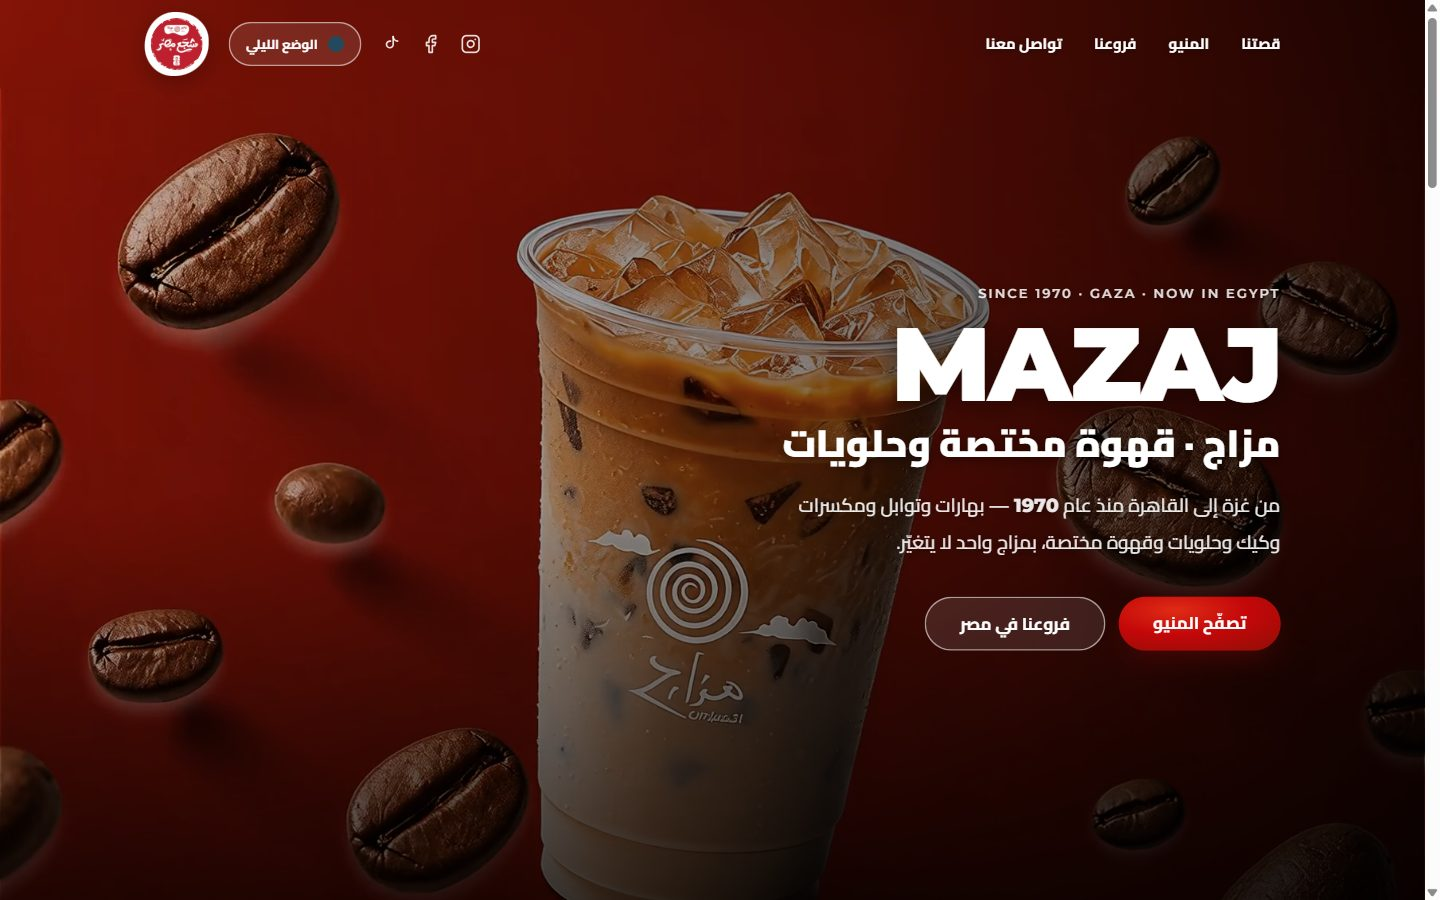
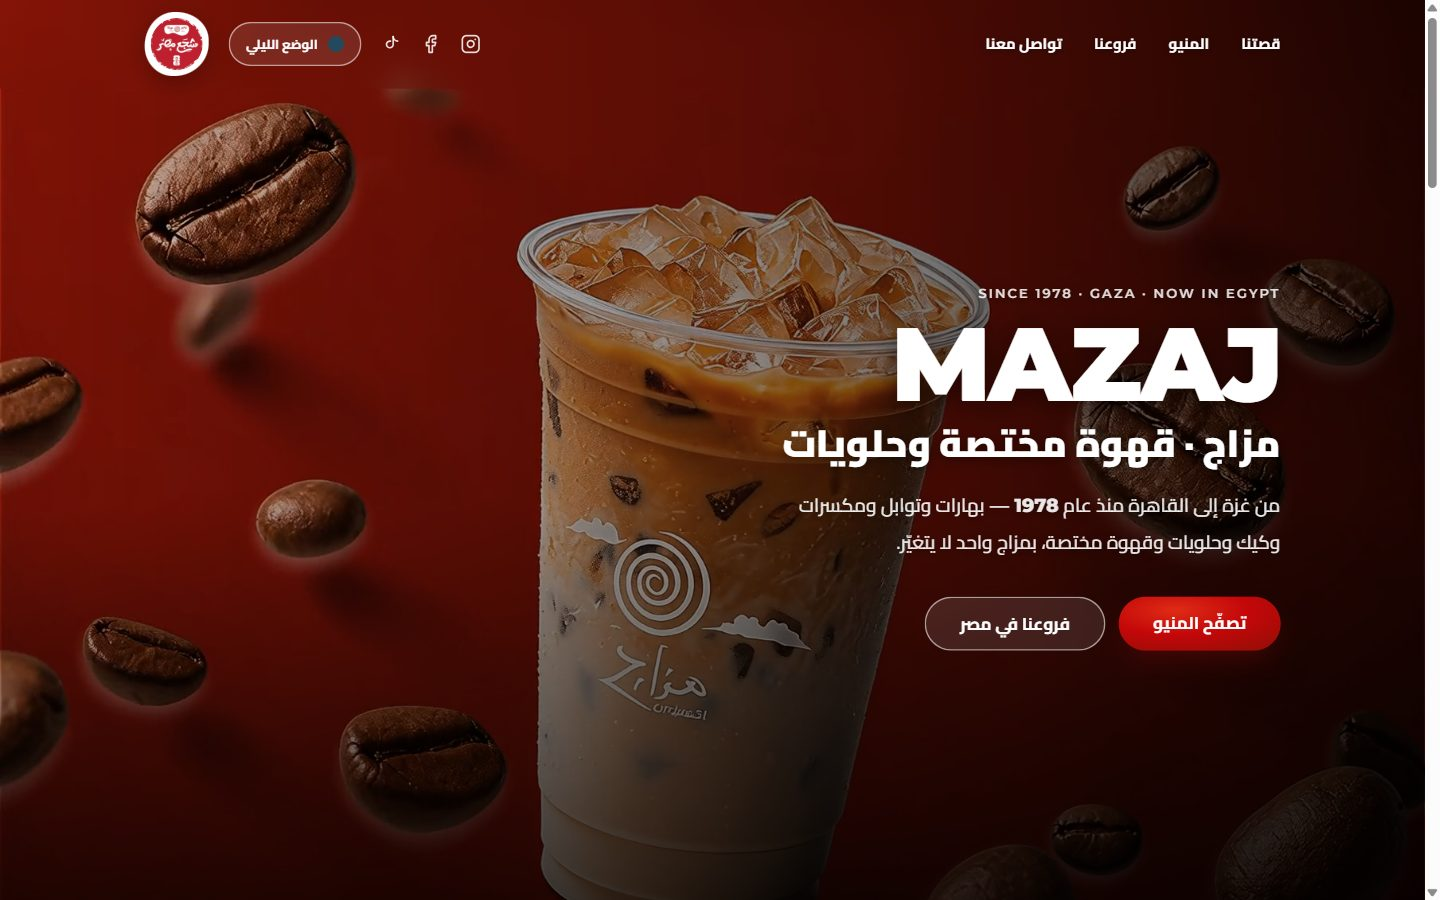
Correct the founding year to 1978
Per the owner. Replaces 1970 everywhere it appeared: the meta description and
og:description, the hero kicker and lead (markup and content/hero-content.json,
including the JS fallback), the story paragraph, the counting stat, the footer
and the README.

Two knock-ons that a find-and-replace alone would have missed:

- "more than fifty years" of experience is no longer true from 1978, so that
  line now reads "nearly fifty years".
- The year is rendered into brand/og-cover.jpg and both docs/preview shots.
  All three are regenerated; the share card ships as og-cover-v2.jpg because
  WhatsApp and Facebook cache the preview against the image URL, and the 1970
  card was briefly live under the old name.

diff --git a/index.html b/index.html
@@ -4,7 +4,7 @@
   <meta charset="UTF-8">
   <meta name="viewport" content="width=device-width, initial-scale=1.0">
   <title>مزاج · Mazaj — قهوة مختصة وحلويات</title>
-  <meta name="description" content="مزاج — من غزة إلى مصر منذ 1970. بهارات وتوابل ومكسرات وكيك وحلويات وقهوة مختصة. تصفّح المنيو كاملاً وشوف أقرب فرع إليك.">
+  <meta name="description" content="مزاج — من غزة إلى مصر منذ 1978. بهارات وتوابل ومكسرات وكيك وحلويات وقهوة مختصة. تصفّح المنيو كاملاً وشوف أقرب فرع إليك.">
   <meta name="theme-color" content="#FBF7F4" media="(prefers-color-scheme: light)">
   <meta name="theme-color" content="#14181C" media="(prefers-color-scheme: dark)">
 
@@ -19,16 +19,16 @@
   <meta property="og:type" content="website">
   <meta property="og:site_name" content="Mazaj — مزاج">
   <meta property="og:title" content="مزاج · Mazaj — قهوة مختصة وحلويات">
-  <meta property="og:description" content="من غزة إلى مصر منذ 1970 — بهارات وتوابل ومكسرات وكيك وحلويات وقهوة مختصة.">
+  <meta property="og:description" content="من غزة إلى مصر منذ 1978 — بهارات وتوابل ومكسرات وكيك وحلويات وقهوة مختصة.">
   <meta property="og:url" content="https://7km-69.github.io/mazaj-cafe-website/">
-  <meta property="og:image" content="https://7km-69.github.io/mazaj-cafe-website/brand/og-cover.jpg">
+  <meta property="og:image" content="https://7km-69.github.io/mazaj-cafe-website/brand/og-cover-v2.jpg">
   <meta property="og:image:type" content="image/jpeg">
   <meta property="og:image:width" content="1200">
   <meta property="og:image:height" content="630">
   <meta property="og:image:alt" content="مزاج · Mazaj — قهوة مختصة وحلويات">
   <meta property="og:locale" content="ar_EG">
   <meta name="twitter:card" content="summary_large_image">
-  <meta name="twitter:image" content="https://7km-69.github.io/mazaj-cafe-website/brand/og-cover.jpg">
+  <meta name="twitter:image" content="https://7km-69.github.io/mazaj-cafe-website/brand/og-cover-v2.jpg">
 
   <!-- Preconnect: Google Fonts DNS + TLS resolved before the CSS request fires -->
   <link rel="preconnect" href="https://fonts.googleapis.com">
@@ -649,10 +649,10 @@ a:focus-visible, [tabindex]:focus-visible, button:focus-visible {
   <div class="hero-foot" aria-hidden="true"></div>
 
   <div class="hero-in">
-    <p class="hero-eyebrow ltr" lang="en" data-rise data-hero="kicker">Since 1970 · Gaza · Now in Egypt</p>
+    <p class="hero-eyebrow ltr" lang="en" data-rise data-hero="kicker">Since 1978 · Gaza · Now in Egypt</p>
     <h1 class="ltr" lang="en" data-rise data-hero="heading">MAZAJ</h1>
     <p class="hero-sub" data-rise data-hero="subheading">مزاج · قهوة مختصة وحلويات</p>
-    <p class="hero-lede" data-rise data-hero="lead">من غزة إلى القاهرة منذ عام <span class="num" dir="ltr">1970</span> — بهارات وتوابل ومكسرات وكيك وحلويات وقهوة مختصة، بمزاج واحد لا يتغيّر.</p>
+    <p class="hero-lede" data-rise data-hero="lead">من غزة إلى القاهرة منذ عام <span class="num" dir="ltr">1978</span> — بهارات وتوابل ومكسرات وكيك وحلويات وقهوة مختصة، بمزاج واحد لا يتغيّر.</p>
 
     <div class="hero-cta" data-rise>
       <a class="btn btn-primary" href="#menus" data-hero="cta1">تصفّح المنيو</a>
@@ -669,13 +669,13 @@ a:focus-visible, [tabindex]:focus-visible, button:focus-visible {
       <p class="eyebrow ltr" lang="en">Our Story</p>
       <h2 class="h2">قصتنا</h2>
 
-      <p class="lede" style="margin-top:24px">حكاية مزاج بدأت في <strong>غزة عام <span class="num" dir="ltr">1970</span></strong> — بيت خبرة في البهارات والتوابل والمكسرات والحلويات، كبر جيلًا بعد جيل حتى صار <span class="num" dir="ltr">14</span> فرعًا يعرفها أهل المدينة بالاسم.</p>
+      <p class="lede" style="margin-top:24px">حكاية مزاج بدأت في <strong>غزة عام <span class="num" dir="ltr">1978</span></strong> — بيت خبرة في البهارات والتوابل والمكسرات والحلويات، كبر جيلًا بعد جيل حتى صار <span class="num" dir="ltr">14</span> فرعًا يعرفها أهل المدينة بالاسم.</p>
 
-      <p class="note" style="margin-top:18px">وأكثر من خمسين عامًا من الخبرة عبرت إلى مصر: ثلاثة فروع في <span class="num" dir="ltr">6</span> أكتوبر ومدينة نصر ومدينتي — نفس الخلطات، نفس المعايير، ونفس المزاج.</p>
+      <p class="note" style="margin-top:18px">وقرابة خمسين عامًا من الخبرة عبرت إلى مصر: ثلاثة فروع في <span class="num" dir="ltr">6</span> أكتوبر ومدينة نصر ومدينتي — نفس الخلطات، نفس المعايير، ونفس المزاج.</p>
 
       <div class="stats" data-reveal>
         <div class="stat">
-          <b class="ltr" data-count>1970</b>
+          <b class="ltr" data-count>1978</b>
           <span>سنة التأسيس في غزة</span>
         </div>
         <div class="stat">
@@ -846,7 +846,7 @@ a:focus-visible, [tabindex]:focus-visible, button:focus-visible {
         <div class="blob blob-lg">
           <img src="brand/logo.jpg" alt="مزاج — Mazaj" width="68" height="68" loading="lazy">
         </div>
-        <p class="ftr-text">مزاج — من غزة إلى مصر منذ <span class="num" dir="ltr">1970</span>. بهارات وتوابل ومكسرات وكيك وحلويات وقهوة مختصة.</p>
+        <p class="ftr-text">مزاج — من غزة إلى مصر منذ <span class="num" dir="ltr">1978</span>. بهارات وتوابل ومكسرات وكيك وحلويات وقهوة مختصة.</p>
       </div>
 
       <div>
@@ -1123,7 +1123,7 @@ a:focus-visible, [tabindex]:focus-visible, button:focus-visible {
           var num = document.createElement('span');
           num.className = 'num';
           num.dir = 'ltr';
-          num.textContent = d.year || '1970';
+          num.textContent = d.year || '1978';
           lead.appendChild(num);
           lead.appendChild(document.createTextNode(d.leadAfter || ''));
         }

diff --git a/CLAUDE.md b/CLAUDE.md
@@ -232,8 +232,10 @@ reveal and reel units in JS. Any new animation must survive that block being act
   `aspect-ratio` and margins are silently dropped on the inline box.
 - **`og:image` must stay an absolute URL** (relative ones are unreliable across crawlers), so it is
   pinned to the GitHub Pages host even though the site also runs on Vercel. The card is
-  `brand/og-cover.jpg` — the hero rendered at 1200×630 with the header hidden and the video paused at
-  2.5s. Regenerate it by screenshotting `.hero` at that viewport, not by cropping a page shot.
+  `brand/og-cover-v2.jpg` — the hero rendered at 1200×630 with the header hidden and the video paused
+  at 2.5s. Regenerate it by screenshotting `.hero` at that viewport, not by cropping a page shot.
+  **The founding year is rendered into it**, so a copy change to that line means regenerating the card
+  and both `docs/preview/` shots, not just editing the markup.
   **Ship a changed card under a new filename.** WhatsApp, Facebook and X cache the preview against
   the image URL, so overwriting the old file leaves everyone looking at the stale card. Existing
   chat threads keep their cached preview regardless; Facebook's Sharing Debugger forces a re-scrape.

diff --git a/README.md b/README.md
@@ -18,7 +18,7 @@ HTML · CSS · Vanilla JS
 ## What this is
 
 A single-page site for **Mazaj (مزاج)** — the Egypt arm of *بدري وهنية*, a spice, nut, cake and
-specialty-coffee house that started in **Gaza in 1970** and now runs three branches in Cairo.
+specialty-coffee house that started in **Gaza in 1978** and now runs three branches in Cairo.
 
 The page is Arabic-first and fully RTL: a full-screen video hero behind a progress-tracking preloader,
 the brand's origin story with counting statistics and a fanned photo deck, four menu categories that
